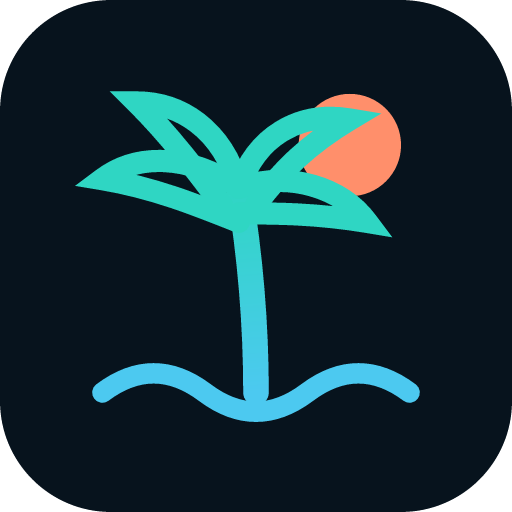
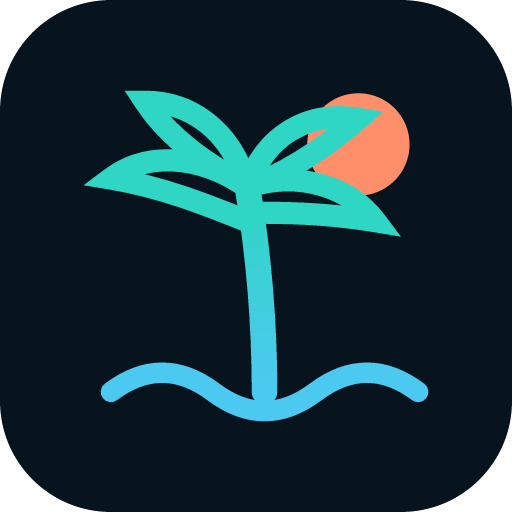
feat(brand): the glyph closes at its crown and centres in its box
The site follows coabana-brand@d65f4a6, the brand's source of record,
in five places:

- Nav glyph: the upper leaves close at the crown (20, 18) without
  crossing the lower ones. Its seven parts sit in
  <g transform="translate(3 -2.075)">, which centres the ink, miter
  tips included, on the 48 box. The --glyph-* properties are kept.
- Hero palm: only the two new leaf paths. It keeps its own
  translate(73 69) scale(3.5) and takes no centring group.
- assets/glyph-light.svg, mark-tile.svg, mark-tile-512.png,
  favicon.svg and favicon-32.png are copied from brand/logos/ at
  d65f4a6. resvg 0.49.0 reproduces the two PNGs byte for byte from the
  SVGs, and renders glyph-light.svg to glyph-light-480.png (7fa22686).
- og-image.jpg is the brand's render of social/og-image/og-image.svg
  (1200 x 630, sha256 65af59e0).
- DESIGN.md § Marca gráfica mirrors the brand's text: the geometry
  table, the centring and miter sentences, the references, resvg
  0.49.0, the tile and the favicon. The only lines that differ are the
  ones where each file speaks of itself.

sitemap lastmod is now 2026-11-06.

Handoff: glyph-redraw, on the operator's word of 2026-11-06 as recorded
in the handoff.

Claude-Session: https://claude.ai/code/session_01BqEuHnGMjQxh2iyH2YRy6R

diff --git a/index.html b/index.html
@@ -101,13 +101,15 @@
     <div class="nav-inner">
       <a class="brand" href="#top" aria-label="Coabana — inicio">
         <svg class="brand-glyph" viewBox="0 0 48 48" fill="none" aria-hidden="true">
-          <circle cx="33" cy="13" r="6" fill="var(--glyph-coral, var(--coral))"/>
-          <path d="M22 42c0-10-1-18-2-24" stroke="url(#trunkGrad)" stroke-width="3" stroke-linecap="round"/>
-          <path d="M20 18C14 14 8 14 4 17c6 1 11 3 16 5" fill="none" stroke="var(--glyph-turquoise, var(--turquoise))" stroke-width="2.6" stroke-linecap="round"/>
-          <path d="M20 18c-2-7-7-10-12-10 4 4 7 8 10 12" fill="none" stroke="var(--glyph-turquoise, var(--turquoise))" stroke-width="2.6" stroke-linecap="round"/>
-          <path d="M20 18c2-6 7-9 13-8-5 3-8 6-11 10" fill="none" stroke="var(--glyph-turquoise, var(--turquoise))" stroke-width="2.6" stroke-linecap="round"/>
-          <path d="M20 18c6-2 12 0 15 4-6-1-11-1-15-1" fill="none" stroke="var(--glyph-turquoise, var(--turquoise))" stroke-width="2.6" stroke-linecap="round"/>
-          <path d="M4 42c4-3 8-3 12 0s8 3 12 0 8-3 12 0" fill="none" stroke="var(--glyph-cyan, var(--cyan))" stroke-width="2.4" stroke-linecap="round"/>
+          <g transform="translate(3 -2.075)">
+            <circle cx="33" cy="13" r="6" fill="var(--glyph-coral, var(--coral))"/>
+            <path d="M22 42c0-10-1-18-2-24" stroke="url(#trunkGrad)" stroke-width="3" stroke-linecap="round"/>
+            <path d="M20 18C14 14 8 14 4 17c6 1 11 3 16 5" fill="none" stroke="var(--glyph-turquoise, var(--turquoise))" stroke-width="2.6" stroke-linecap="round"/>
+            <path d="M20 18C18 11 13 8 8 8C11 12.6 15.6 15.4 20 18" fill="none" stroke="var(--glyph-turquoise, var(--turquoise))" stroke-width="2.6" stroke-linecap="round"/>
+            <path d="M20 18C22 12 27 9 33 10C28.4 14 23.6 16.8 20 18" fill="none" stroke="var(--glyph-turquoise, var(--turquoise))" stroke-width="2.6" stroke-linecap="round"/>
+            <path d="M20 18c6-2 12 0 15 4-6-1-11-1-15-1" fill="none" stroke="var(--glyph-turquoise, var(--turquoise))" stroke-width="2.6" stroke-linecap="round"/>
+            <path d="M4 42c4-3 8-3 12 0s8 3 12 0 8-3 12 0" fill="none" stroke="var(--glyph-cyan, var(--cyan))" stroke-width="2.4" stroke-linecap="round"/>
+          </g>
           <defs>
             <linearGradient id="trunkGrad" x1="20" y1="18" x2="22" y2="42" gradientUnits="userSpaceOnUse">
               <stop offset="0" stop-color="var(--glyph-turquoise, var(--turquoise))"/><stop offset="1" stop-color="var(--glyph-cyan, var(--cyan))"/>
@@ -187,8 +189,8 @@
               <g transform="translate(73 69) scale(3.5)" fill="none" stroke-linecap="round">
                 <path d="M22 42c0-10-1-18-2-24" stroke="url(#heroPalmTrunk)" stroke-width="2"/>
                 <path d="M20 18C14 14 8 14 4 17c6 1 11 3 16 5" stroke="var(--turquoise)" stroke-width="1.714"/>
-                <path d="M20 18c-2-7-7-10-12-10 4 4 7 8 10 12" stroke="var(--turquoise)" stroke-width="1.714"/>
-                <path d="M20 18c2-6 7-9 13-8-5 3-8 6-11 10" stroke="var(--turquoise)" stroke-width="1.714"/>
+                <path d="M20 18C18 11 13 8 8 8C11 12.6 15.6 15.4 20 18" stroke="var(--turquoise)" stroke-width="1.714"/>
+                <path d="M20 18C22 12 27 9 33 10C28.4 14 23.6 16.8 20 18" stroke="var(--turquoise)" stroke-width="1.714"/>
                 <path d="M20 18c6-2 12 0 15 4-6-1-11-1-15-1" stroke="var(--turquoise)" stroke-width="1.714"/>
               </g>
               <!-- isla de datos: rejilla de puntos -->

diff --git a/DESIGN.md b/DESIGN.md
@@ -108,17 +108,34 @@ La **fuente de verdad de la marca de Coabana** es, como para los tokens, `brand/
 
 | Variante | Fondo | Sol | Hojas | Tronco (degradado) | Ola | Fuente |
 |---|---|---|---|---|---|---|
-| Oscura | `--bg` oscuro `#07131d` | `#ff8f6b` | `#2fd6c3` | `#2fd6c3` → `#4cc9f0` | `#4cc9f0` | El glifo en línea de `index.html` (`.brand-glyph`), pintado con las propiedades `--glyph-*` (abajo) |
+| Oscura | `--bg` oscuro `#07131d` | `#ff8f6b` | `#2fd6c3` | `#2fd6c3` → `#4cc9f0` | `#4cc9f0` | `glyph-dark.svg`, colores como literales, prefijo de ids `coabana-glyph-dark-`; en el sitio, el glifo en línea de `index.html` (`.brand-glyph`), pintado con las propiedades `--glyph-*` (abajo) |
 | Clara | papel o blanco | `#c94b28` | `#0b8b7d` | `#0b8b7d` → `#0f7ea6` | `#0f7ea6` | `assets/glyph-light.svg`, colores como literales; el id del degradado lleva el prefijo `coabana-glyph-` |
+
+**La geometría**, en la caja de 48, idéntica en las dos variantes y en toda copia:
+
+| Parte | Trazado | Trazo |
+|---|---|---|
+| Sol | `<circle cx="33" cy="13" r="6"/>` | relleno |
+| Tronco | `M22 42c0-10-1-18-2-24`, degradado `x1="20" y1="18" x2="22" y2="42"` en `userSpaceOnUse` | 3 |
+| Hoja baja izquierda | `M20 18C14 14 8 14 4 17c6 1 11 3 16 5` | 2.6 |
+| Hoja alta izquierda | `M20 18C18 11 13 8 8 8C11 12.6 15.6 15.4 20 18` | 2.6 |
+| Hoja alta derecha | `M20 18C22 12 27 9 33 10C28.4 14 23.6 16.8 20 18` | 2.6 |
+| Hoja baja derecha | `M20 18c6-2 12 0 15 4-6-1-11-1-15-1` | 2.6 |
+| Ola | `M4 42c4-3 8-3 12 0s8 3 12 0 8-3 12 0` | 2.4 |
+
+- Todo va dentro de un grupo `translate(3 -2.075)`, que centra la tinta en la caja: va de x 3.79 a 44.20 y de y 4.625 a 43.375, con centro (24, 24). La tinta incluye la punta en inglete de la hoja baja izquierda, que llega más lejos que su trazado. Quien coloca el glifo coloca la caja; no recalcula su centro.
+- Los trazos llevan `stroke-linecap="round"` y la unión por defecto, `miter` con límite 4. Las cuatro puntas tienen relaciones de inglete de entre 2.55 y 2.88, así que todas salen afiladas. Ninguna copia las redondea ni cambia el límite por debajo de 3.
+- Las dos hojas altas cierran en la corona (20, 18) sin cruzar a las bajas. Las bajas terminan sobre el tronco, que las tapa.
+- Las referencias de comprobación son `glyph-light-480.png` y `glyph-dark-480.png`: toda copia se verifica contra ellas, no contra su propio render anterior.
 
 Los colores de la variante clara son los suyos y no siguen a los acentos del tema claro, que se oscurecieron para el texto: el glifo es un gráfico y le basta 3:1 (ver Contraste). No se recolorea para igualarlo a los tokens.
 
-**Un glifo dibujado en línea**, que cambia con el tema, no se pinta con los acentos: se pinta con tres propiedades propias, `--glyph-coral` (sol), `--glyph-turquoise` (hojas e inicio del tronco) y `--glyph-cyan` (ola y final del tronco), también en los `stop-color` del degradado. En el tema oscuro valen lo mismo que `--coral`, `--turquoise` y `--cyan` (`#ff8f6b`, `#2fd6c3`, `#4cc9f0`); en el claro, los literales de la variante clara (`#c94b28`, `#0b8b7d`, `#0f7ea6`). Así la marca en línea es, en cada tema, exactamente una de las dos variantes, y un cambio de acento no la recolorea. Cualquier sitio, deck o pieza que dibuje el glifo en línea sigue esta regla.
+**Un glifo dibujado en línea**, que cambia con el tema, no se pinta con los acentos: se pinta con tres propiedades propias, `--glyph-coral` (sol), `--glyph-turquoise` (hojas e inicio del tronco) y `--glyph-cyan` (ola y final del tronco), también en los `stop-color` del degradado. En el tema oscuro valen lo mismo que `--coral`, `--turquoise` y `--cyan` (`#ff8f6b`, `#2fd6c3`, `#4cc9f0`); en el claro, los literales de la variante clara (`#c94b28`, `#0b8b7d`, `#0f7ea6`). Así la marca en línea es, en cada tema, exactamente una de las dos variantes, y un cambio de acento no la recolorea. Cada referencia se escribe con respaldo, `var(--glyph-coral, var(--coral))` y lo mismo con `turquoise` y `cyan`, porque una hoja de estilos en caché, anterior a las propiedades, deja el glifo en blanco sin él. El respaldo solo actúa mientras se sirve una hoja anterior a las propiedades, y en esas hojas, que son anteriores al oscurecimiento de los acentos claros, los acentos todavía coinciden con los literales del glifo, así que la marca sigue exacta. Cualquier sitio, deck o pieza que dibuje el glifo en línea sigue esta regla.
 
-- **La baldosa** (`assets/mark-tile.svg`, `viewBox="0 0 60 60"`) es un renderizado derivado, no una tercera variante: la variante oscura sin alterar sobre un cuadrado `#07131d` de radio 13 (≈ 22 %). Es el único fondo propio sancionado para la marca, para los huecos que exigen una imagen opaca cuadrada o circular: el `logo` de los datos estructurados de `index.html` (`assets/mark-tile-512.png`), el icono grande (el mismo PNG) y los avatares. El glifo va centrado sobre su trazo, no sobre su caja de 48 (`translate(8 4)`), y cabe entero en el círculo inscrito, así que un recorte redondo no lo corta.
-- **El favicon** (`assets/favicon.svg`, `assets/favicon-32.png`) es la baldosa dibujada para 16–32 px: los mismos trazados y colores, con trazos más gruesos (tronco 4.2, hojas 3.6, ola 3.4, sol de radio 6.3) y una baldosa más ceñida (48, radio 10.5, `translate(2 -2)`), para que la palma, el sol y la ola sobrevivan en la pestaña. Es la única simplificación declarada del glifo y no se usa por encima de 48 px.
+- **La baldosa** (`assets/mark-tile.svg`, `viewBox="0 0 60 60"`) es un renderizado derivado, no una tercera variante: la variante oscura sin alterar sobre un cuadrado `#07131d` de radio 13 (≈ 22 %). Es el único fondo propio sancionado para la marca, para los huecos que exigen una imagen opaca cuadrada o circular: el `logo` de los datos estructurados de `index.html` (`assets/mark-tile-512.png`), el icono grande (el mismo PNG) y los avatares. La caja de 48 va centrada en la baldosa con `translate(6 6)`; como el glifo ya está centrado en su caja, su tinta queda en el centro de la baldosa, (30, 30). Cabe entera en el círculo inscrito (su punto más lejano está a 25.99 del centro, con un radio de 30), así que un recorte redondo no la corta.
+- **El favicon** (`assets/favicon.svg`, `assets/favicon-32.png`) es la baldosa dibujada para 16–32 px: los mismos trazados y colores, con trazos más gruesos (tronco 4.2, hojas 3.6, ola 3.4, sol de radio 6.3) y una baldosa más ceñida (48, radio 10.5), para que la palma, el sol y la ola sobrevivan en la pestaña. La caja va a `translate(0.37 0)` porque los trazos gruesos desplazan el borde izquierdo de la tinta, y así esta vuelve al centro (24, 24). Su tinta se sale del círculo inscrito: el favicon no se recorta en redondo. Es la única simplificación declarada del glifo y no se usa por encima de 48 px.
 - **La baldosa lleva su radio dibujado**: no se usa donde la plataforma aplica su propia máscara (`apple-touch-icon`, iconos adaptativos), porque el redondeo se duplicaría.
-- **Los PNG se renderizan con resvg 0.48.1** y son reproducibles byte a byte: `resvg -w 512 -h 512 assets/mark-tile.svg assets/mark-tile-512.png` y `resvg -w 32 -h 32 assets/favicon.svg assets/favicon-32.png`.
+- **Los PNG se renderizan con resvg 0.49.0** y son reproducibles byte a byte: `resvg -w 512 -h 512 assets/mark-tile.svg assets/mark-tile-512.png` y `resvg -w 32 -h 32 assets/favicon.svg assets/favicon-32.png`; las referencias, `resvg -w 480 -h 480 glyph-light.svg glyph-light-480.png` y lo mismo con `glyph-dark`. La 0.49.0 reproduce byte a byte los dos PNG que hizo la 0.48.1.
 - **La palma del hero** (`.island-svg` en `index.html`) es la palma del glifo a ×3.5 con peso de ilustración (tronco 7, hojas 6, el degradado del tronco) y sin sol ni ola: una ilustración que cita la marca, no una variante ni un peso nuevo del glifo. Es el único uso sancionado de la geometría del glifo como ilustración; si el glifo cambia, cambia con él.
 - **Tamaño mínimo: 24 px** de lado; por debajo los trazos de las hojas se funden. El favicon (16–32 px) es la excepción, con su dibujo propio.
 - **Espacio libre**: alrededor del cuadrado del glifo, al menos **¼ de su lado** (12 px para un glifo de 48 px) sin texto ni otra marca.
